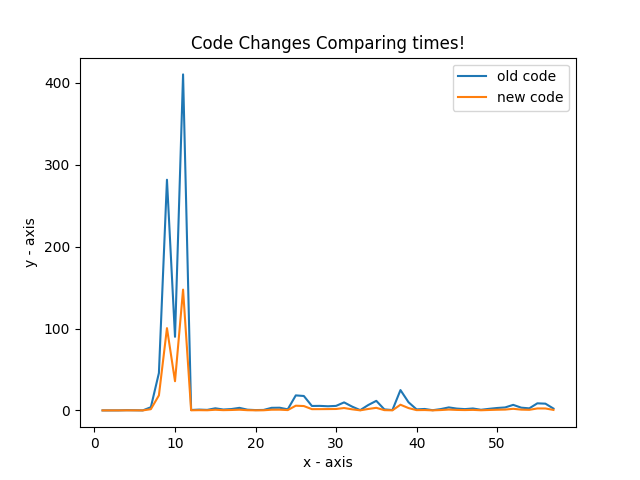
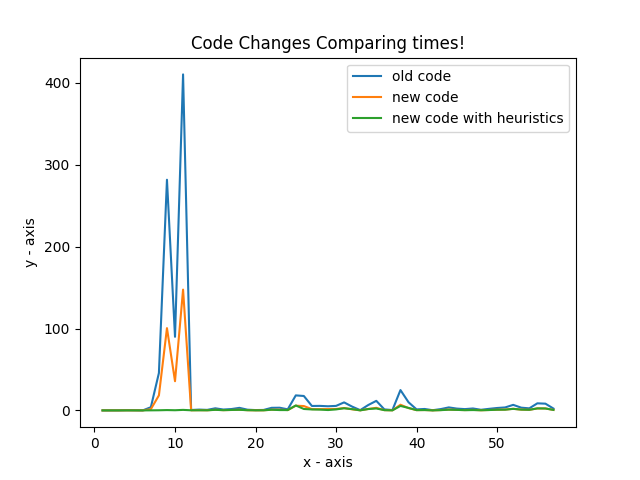
Updates

Changed region(s): [[0.5312, 0.125, 0.875, 0.2812], [0.1562, 0.8438, 0.875, 0.875]]

diff --git a/mr_robot.py b/mr_robot.py
@@ -43,17 +43,14 @@ async def agent_loop(server_address="localhost:8080", agent_name="mr_Robot"):
                     currentlySearching = False
                     mapa = Map(state.get("grid"))
                     mapaString = state.get("grid").split(" ")[1]
-                    print(mapaString)
 
 
 
                 if not currentlySearching:
                     currentlySearching = True
                     moves =  AStar(state.get("grid"))
-                    print(moves)
                 
                 if mapaString != state.get("grid").split(" ")[1]:
-                    print("CrazyDriver", state.get("grid").split(" ")[1])
                     newMapa = Map(state.get("grid"))
                     crazyMoves = calculateCrazyMoves(newMapa,mapa)
                     mapa = Map(state.get("grid"))
@@ -87,8 +84,6 @@ def calculateCrazyMoves(newMap,oldMapa):
     grid_str = oldMapa.__repr__().split(" ")[1]
     new_grid_str = newMap.__repr__().split(" ")[1]
 
-    for i in oldMapa.grid:
-        print(i)
     
 
 
@@ -121,7 +116,6 @@ def calculateCrazyMoves(newMap,oldMapa):
 
 
         else:
-            print("vertical")
 
             if positive == -1:
                 crazy_moves = crazy_moves + crazy_car+"w"

diff --git a/report/plottingData.py b/report/plottingData.py
@@ -4,6 +4,7 @@ import matplotlib.pyplot as plt
 
 file1 = open('times_1.txt', 'r')
 file2 = open('times_2.txt', 'r')
+file3 = open('times_3.txt', 'r')
 Lines = file1.readlines()
 j =1
 x = []
@@ -23,6 +24,14 @@ for line in Lines[3:]:
 
 plt.plot(x, y2, label = "new code")
 
+
+
+Lines = file3.readlines()
+y3 = []
+for line in Lines[3:]:
+    y3.append(float(line.split(" ")[5]))
+
+plt.plot(x, y3, label = "new code with heuristics")
 
 # naming the x axis
 plt.xlabel('x - axis')

diff --git a/commonMethods.py b/commonMethods.py
@@ -369,7 +369,7 @@ if __name__ == "__main__":
 
         if searchType == "A*":
             startTime = time.time()
-            #print(AStar(i))
+            AStar(i)
             endTime = time.time()
     
     
